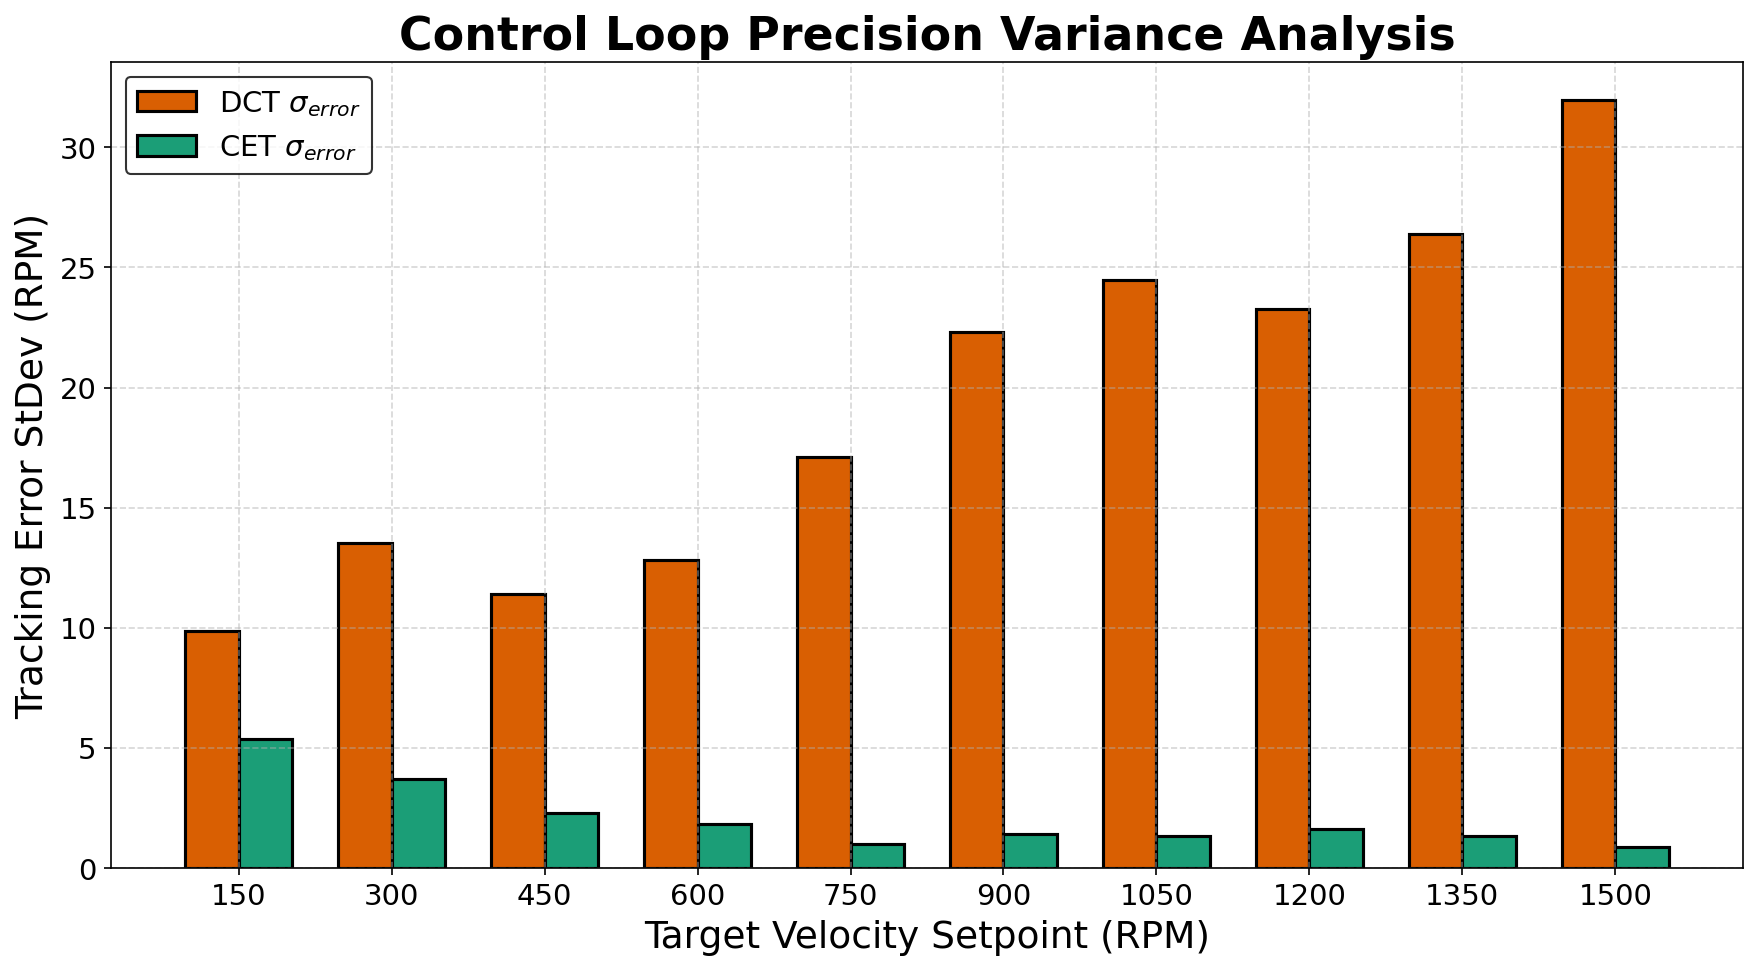
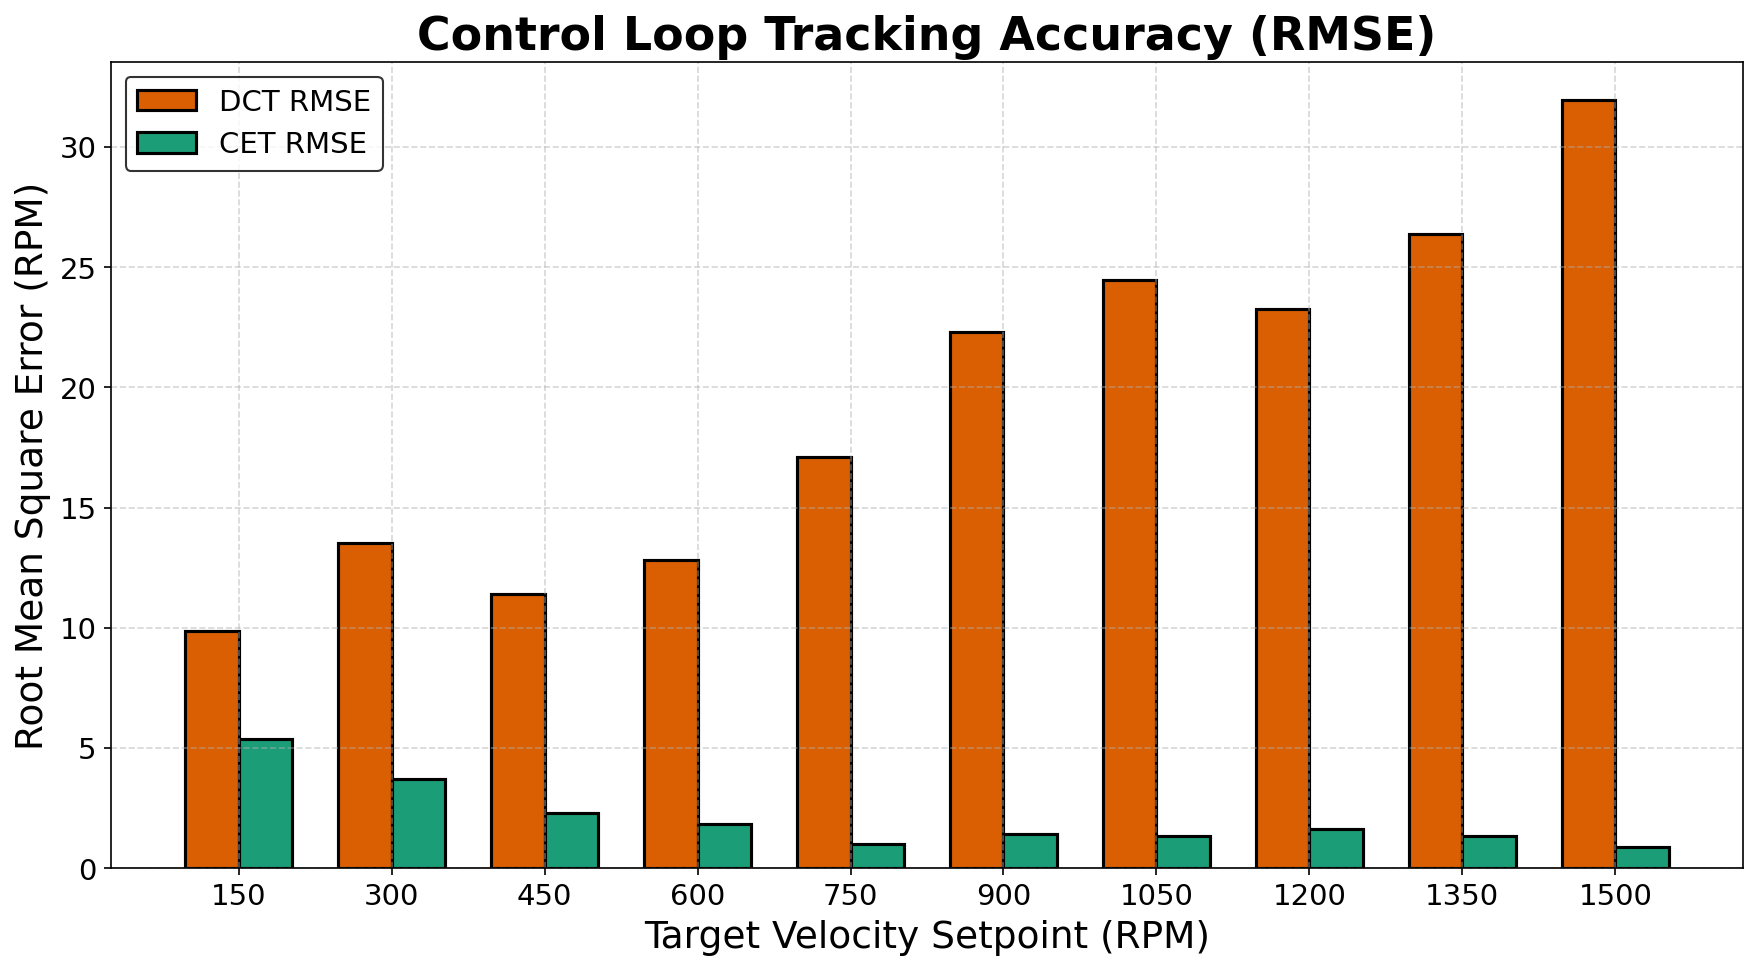
feat(cetvsdctpi): enhance PPT styling and error metrics calculation
- update comments for clarity on PPT styling
- improve error metrics calculation from standard deviation to RMSE
- add transient response settling time before steady-state metrics
- update plot titles and labels for better accuracy
- include statistics annotation in plots for detailed analysis

Changed region(s): [[0.215, 0.0, 0.8294, 0.0619], [0.0, 0.1856, 0.0307, 0.7732], [0.0614, 0.0928, 0.215, 0.1856]]

diff --git a/cetvsdctpi.py b/cetvsdctpi.py
@@ -4,7 +4,7 @@ import numpy as np
 import sys
 import matplotlib as mpl
 
-# --- POWERPOINT PRESENTATION STYLING ---
+# --- THESIS DEFENSE PPT STYLING ---
 mpl.rcParams.update({
     'font.family': 'sans-serif',
     'font.size': 16,
@@ -46,6 +46,7 @@ for step in steps:
     dct_step = df_dct[df_dct[step_col] == step]
     cet_step = df_cet[df_cet[step_col] == step]
     
+    # Allow 4 seconds for transient response to settle before calculating steady-state metrics
     dct_stable = dct_step[dct_step[t_dct] > (dct_step[t_dct].min() + 4)]
     cet_stable = cet_step[cet_step[t_cet] > (cet_step[t_cet].min() + 4)]
     
@@ -53,12 +54,18 @@ for step in steps:
         target_val = dct_step[target_col].iloc[0]
         if target_val <= 0: continue
         
+        # Calculate errors
+        dct_err = dct_stable[target_col] - dct_stable[rpm_dct]
+        cet_err = cet_stable[target_col] - cet_stable[rpm_cet]
+        
         stats.append({
             'Target RPM': target_val,
-            'DCT Mean Error': np.abs(dct_stable[target_col] - dct_stable[rpm_dct]).mean(),
-            'CET Mean Error': np.abs(cet_stable[target_col] - cet_stable[rpm_cet]).mean(),
-            'DCT Error SD': (dct_stable[target_col] - dct_stable[rpm_dct]).std(),
-            'CET Error SD': (cet_stable[target_col] - cet_stable[rpm_cet]).std()
+            'DCT RMSE': np.sqrt((dct_err**2).mean()),
+            'CET RMSE': np.sqrt((cet_err**2).mean()),
+            'DCT Error SD': dct_err.std(),
+            'CET Error SD': cet_err.std(),
+            'DCT SS Error %': (np.abs(dct_err.mean()) / target_val) * 100,
+            'CET SS Error %': (np.abs(cet_err.mean()) / target_val) * 100
         })
 
 stats_df = pd.DataFrame(stats)
@@ -68,9 +75,9 @@ stats_df = pd.DataFrame(stats)
 # ==========================================
 fig1 = plt.figure(figsize=(12, 6.75)) 
 
-plt.plot(df_dct[t_dct], df_dct[rpm_dct], color='#d95f02', alpha=0.7, label='DCT Measured Velocity')
-plt.plot(df_cet[t_cet], df_cet[rpm_cet], color='#1b9e77', alpha=0.9, label='CET Measured Velocity')
-plt.plot(df_cet[t_cet], df_cet[target_col], color='black', linestyle=':', linewidth=3.0, label='Target Setpoint')
+plt.plot(df_dct[t_dct], df_dct[rpm_dct], color='#d95f02', alpha=0.7, label='DCT Velocity')
+plt.plot(df_cet[t_cet], df_cet[rpm_cet], color='#1b9e77', alpha=0.9, label='CET Velocity')
+plt.plot(df_cet[t_cet], df_cet[target_col], color='black', linestyle=':', linewidth=3.0, label='Setpoint')
 
 plt.title('Closed-Loop Tracking Performance Comparison', fontweight='bold')
 plt.xlabel('Time (s)')
@@ -91,36 +98,58 @@ df_dct_zoom = df_dct[(df_dct[t_dct] > zoom_start) & (df_dct[t_dct] < zoom_end)]
 df_cet_zoom = df_cet[(df_cet[t_cet] > zoom_start) & (df_cet[t_cet] < zoom_end)]
 target_val = df_cet_zoom[target_col].iloc[0]
 
-# Applied drawstyle='steps-post' to both plots for accurate comparison of digital control loops
-plt.plot(df_dct_zoom[t_dct], df_dct_zoom[rpm_dct], color='#d95f02', alpha=0.9, drawstyle='steps-post', label='DCT Control Response')
-plt.plot(df_cet_zoom[t_cet], df_cet_zoom[rpm_cet], color='#1b9e77', drawstyle='steps-post', label='CET Control Response')
+plt.plot(df_dct_zoom[t_dct], df_dct_zoom[rpm_dct], color='#d95f02', alpha=0.9, drawstyle='steps-post', label='DCT Response')
+plt.plot(df_cet_zoom[t_cet], df_cet_zoom[rpm_cet], color='#1b9e77', drawstyle='steps-post', label='CET Response')
 plt.axhline(target_val, color='black', linestyle=':', linewidth=3.0, label=f'Target ({target_val:.0f} RPM)')
 
-plt.title(f'Steady-State PI Actuation at {target_val:.0f} RPM', fontweight='bold')
+plt.title(r'Steady-State PI Actuation ($T_s \approx 10$ ms)', fontweight='bold')
 plt.xlabel('Time (s)')
 plt.ylabel('Velocity (RPM)')
-plt.legend(loc='upper right', frameon=True, edgecolor='black')
 
+# Dynamic Scaling
 y_min = min(df_dct_zoom[rpm_dct].min(), df_cet_zoom[rpm_cet].min())
 y_max = max(df_dct_zoom[rpm_dct].max(), df_cet_zoom[rpm_cet].max())
 y_range = y_max - y_min
 if y_range > 0:
-    plt.ylim(y_min - 0.2 * y_range, y_max + 0.2 * y_range)
+    plt.ylim(y_min - 0.2 * y_range, y_max + 0.3 * y_range) # Extra top padding for text box
 
+# Extract stats for the zoomed step to annotate the plot
+step_stats = stats_df[stats_df['Target RPM'] == target_val].iloc[0]
+stat_text = (
+    f"DCT Metrics:\n"
+    f"  RMSE: {step_stats['DCT RMSE']:.2f} RPM\n"
+    f"  " + r"$\sigma$" + f": {step_stats['DCT Error SD']:.2f} RPM\n\n"
+    f"CET Metrics:\n"
+    f"  RMSE: {step_stats['CET RMSE']:.2f} RPM\n"
+    f"  " + r"$\sigma$" + f": {step_stats['CET Error SD']:.2f} RPM"
+)
+
+# Place text box in the top right
+plt.text(0.97, 0.95, stat_text, transform=plt.gca().transAxes, fontsize=12,
+         verticalalignment='top', horizontalalignment='right',
+         bbox=dict(boxstyle='round', facecolor='white', alpha=0.9, edgecolor='black'))
+
+plt.legend(loc='upper left', frameon=True, edgecolor='black')
 plt.savefig('ppt_pi_steady_state.png', bbox_inches='tight')
 
 # ==========================================
-# FIGURE 3: Error Standard Deviation Bar Chart
+# FIGURE 3: Error RMSE Bar Chart
 # ==========================================
+# Switched from StdDev to RMSE for standard control systems evaluation
 fig3 = plt.figure(figsize=(12, 6.75))
 bar_width = 0.35
 index = np.arange(len(stats_df))
 
-plt.bar(index, stats_df['DCT Error SD'], bar_width, label=r'DCT $\sigma_{error}$', color='#d95f02', edgecolor='black', linewidth=1.5)
-plt.bar(index + bar_width, stats_df['CET Error SD'], bar_width, label=r'CET $\sigma_{error}$', color='#1b9e77', edgecolor='black', linewidth=1.5)
+plt.bar(index, stats_df['DCT RMSE'], bar_width, label='DCT RMSE', color='#d95f02', edgecolor='black', linewidth=1.5)
+plt.bar(index + bar_width, stats_df['CET RMSE'], bar_width, label='CET RMSE', color='#1b9e77', edgecolor='black', linewidth=1.5)
 plt.xlabel('Target Velocity Setpoint (RPM)')
-plt.ylabel('Tracking Error StDev (RPM)')
-plt.title('Control Loop Precision Variance Analysis', fontweight='bold')
+plt.ylabel('Root Mean Square Error (RPM)')
+plt.title('Control Loop Tracking Accuracy (RMSE)', fontweight='bold')
 plt.xticks(index + bar_width / 2, stats_df['Target RPM'].astype(int).astype(str).tolist())
 plt.legend(frameon=True, edgecolor='black')
 plt.savefig('ppt_pi_error_barchart.png', bbox_inches='tight')
+
+print("--- PI CONTROLLER STEADY-STATE TRACKING STATISTICS ---")
+print(stats_df.to_markdown(index=False, floatfmt=".2f"))
+
+plt.show()
